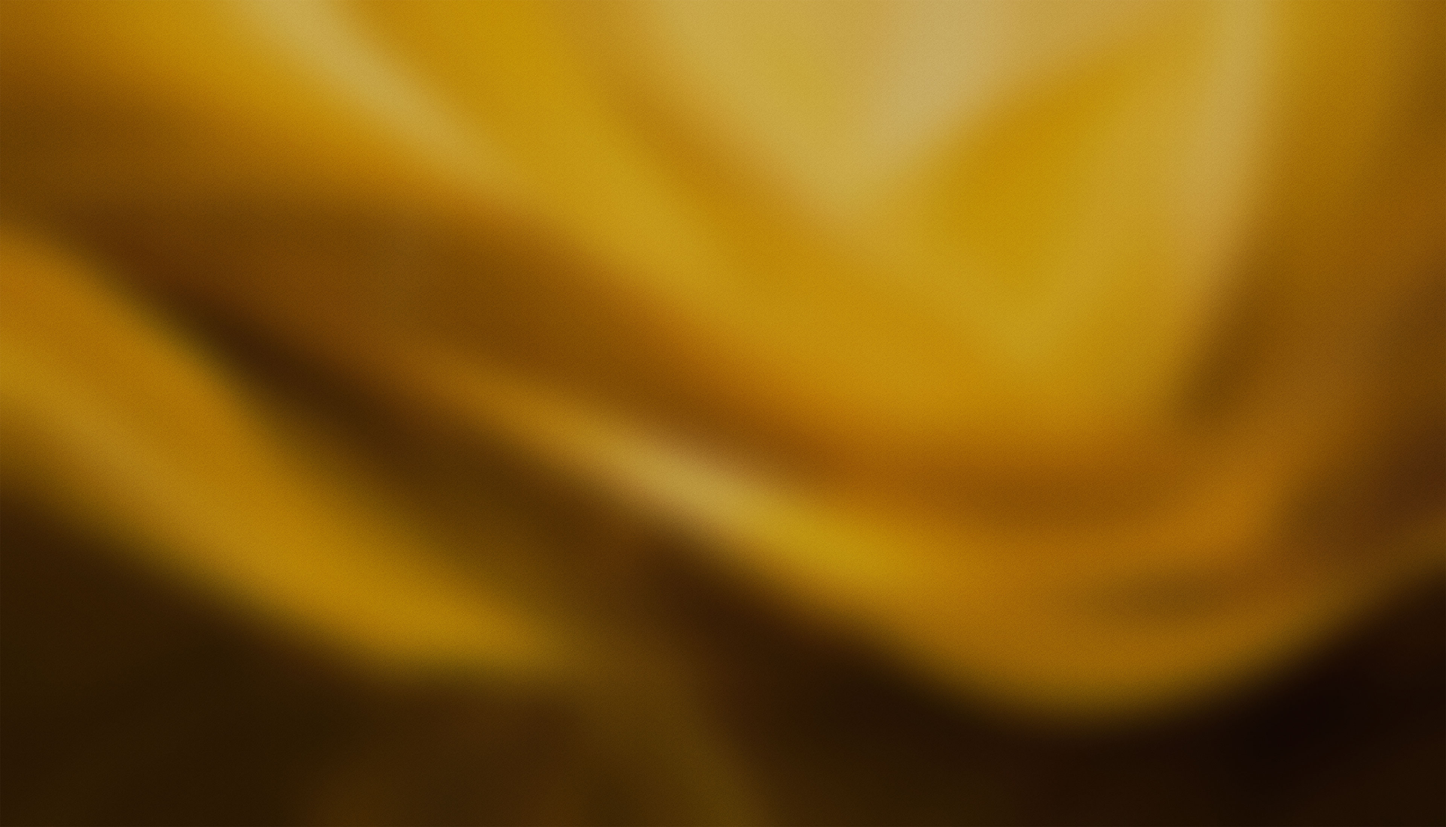
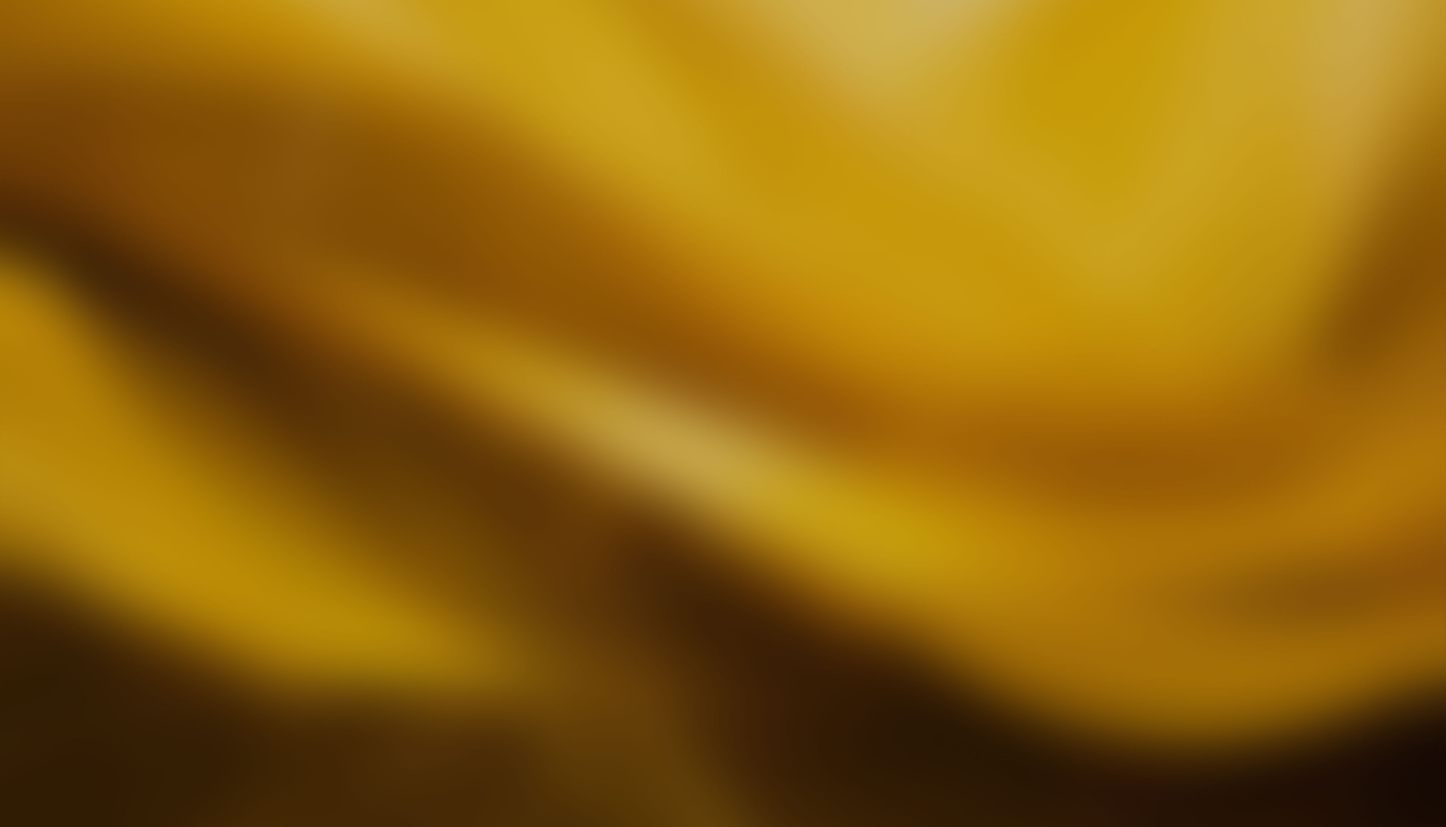
update

diff --git a/css/convert_v2.css b/css/convert_v2.css
@@ -544,7 +544,6 @@ main#convert-main {
    display: block;
 }
 
-/* ---------- Textura enmascarada ---------- */
 .title-img::after {
    content: '';
    position: absolute;
@@ -552,17 +551,14 @@ main#convert-main {
    z-index: 3;
    pointer-events: none;
 
-   /* Pattern repetido */
    background: url('../img/texture-main.png') repeat;
-   mix-blend-mode: multiply; /* opcional */
+   mix-blend-mode: multiply;
    opacity: 0.4;
 
-   /* Máscara con la PNG “on” (estado por defecto) */
    -webkit-mask: url('../img/title-Welcome.png') center / contain no-repeat;
    mask: url('../img/title-Welcome.png') center / contain no-repeat;
 }
 
-/* Cuando está en viewport, cambiamos la máscara a la PNG “off” */
 .title-img.in-view::after {
    -webkit-mask-image: url('../img/title-Welcome2.png');
    mask-image: url('../img/title-Welcome2.png');
@@ -1010,6 +1006,18 @@ main#convert-main {
    z-index: -1;
 }
 
+#winning .bg-content::after {
+   content: '';
+   position: absolute;
+   inset: 0;
+   z-index: 3;
+   pointer-events: none;
+
+   background: url('../img/texture-main.png') repeat;
+   mix-blend-mode: overlay;
+   opacity: 0.4;
+}
+
 #winning .bg,
 #winning .bg2 {
    overflow: visible;
@@ -1081,6 +1089,18 @@ main#convert-main {
    justify-content: center;
    align-items: center;
    container-type: inline-size;
+}
+
+#services .text::after {
+   content: '';
+   position: absolute;
+   inset: 0;
+   z-index: 3;
+   pointer-events: none;
+
+   background: url('../img/texture-main.png') repeat;
+   mix-blend-mode: overlay;
+   opacity: 0.4;
 }
 
 #services h1 {

diff --git a/index.html b/index.html
@@ -445,7 +445,7 @@
                         space-between="0"
                         slides-per-view="1.8"
                         free-mode="true"
-                        breakpoints='{"0": {"slidesPerView": 1}, "1800": {"slidesPerView": 1.8}}'
+                        breakpoints='{"0": {"slidesPerView": 1.5}, "1880": {"slidesPerView": 1.8}}'
                      >
                         <swiper-slide>
                            <div class="slide">
